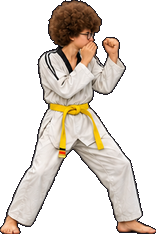
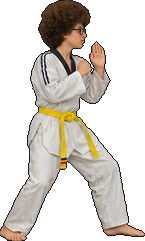
CAMPOS com folha nova e chutes por direção
Claude-Session: https://claude.ai/code/session_01HXNLdPa6jqkq51q5LfzTTd

diff --git a/index.html b/index.html
@@ -151,7 +151,7 @@ const ROSTER=[
  {nome:'MATT',tam:1.14,real:true,hit:{soco:{x:8,y:-50,w:22,h:13},direto:{x:9,y:-49,w:22,h:13},chute:{x:12,y:-44,w:22,h:13},passo:{x:13,y:-49,w:22,h:13},lateral:{x:13,y:-49,w:22,h:13},aereo:{x:12,y:-44,w:22,h:13},salto:{x:10,y:-67,w:26,h:18}},spr:{idle:['matt-idle.webp',66.0,1.0],a0:['matt-idle.webp',66.0,1.0],a1:['matt-andar.webp',80.5,0.979],a2:['matt-andar.webp',80.5,0.979],a3:['matt-andar.webp',80.5,0.979],soco:['matt-soco.webp',95.2,0.979],direto:['matt-direto.webp',101.2,0.967],chute:['matt-chute.webp',52.0,1.021],passo:['matt-lado.webp',94.0,1.004],pulo:['matt-pulo.webp',88.0,0.821],gancho:['matt-gancho.webp',84.5,1.008],pouso:['matt-pouso.webp',98.5,0.629],guarda:['matt-idle.webp',66.0,1.0]},faixa:'#151515',gola:true,pele:'#e0b48e',cabelo:'#1a120d',estilo:'cacheado'},
  {nome:'TIO',real:true,hit:{soco:{x:12,y:-51,w:22,h:13},direto:{x:11,y:-50,w:22,h:13},chute:{x:19,y:-47,w:22,h:13},giro:{x:19,y:-47,w:22,h:13},passo:{x:18,y:-41,w:22,h:13},lateral:{x:18,y:-41,w:22,h:13},aereo:{x:19,y:-47,w:22,h:13}},spr:{idle:['tio-idle.webp',74.2,1.0],a0:['tio-idle.webp',74.2,1.0],a1:['tio-andar.webp',88.2,0.979],a2:['tio-andar2.webp',59.0,1.029],a3:['tio-andar.webp',88.2,0.979],junta:['tio-junta.webp',48.0,1.083],soco:['tio-soco.webp',83.0,1.004],direto:['tio-direto.webp',86.5,0.988],chute:['tio-chute.webp',45.5,1.071],alto:['tio-chute.webp',45.5,1.071],passo:['tio-lado.webp',73.5,1.058],guarda:['tio-guarda.webp',76.0,0.996]},faixa:'#f2c230',pele:'#e0b48e',cabelo:'#2a1810',estilo:'curto'},
  {nome:'CLEITON',tam:1.14,real:true,hit:{soco:{x:10,y:-52,w:22,h:13},direto:{x:10,y:-51,w:22,h:13},chute:{x:22,y:-45,w:22,h:13},giro:{x:9,y:-63,w:22,h:18},passo:{x:11,y:-64,w:22,h:20},lateral:{x:22,y:-45,w:22,h:13},aereo:{x:22,y:-45,w:22,h:13}},spr:{idle:['cleiton-idle.webp',75.0,1.0],a0:['cleiton-idle.webp',75.0,1.0],a1:['cleiton-guarda.webp',76.5,0.979],a2:['cleiton-andar.webp',54.8,0.988],a3:['cleiton-guarda.webp',76.5,0.979],junta:['cleiton-junta.webp',120.0,0.946],soco:['cleiton-soco.webp',79.2,0.996],direto:['cleiton-direto.webp',84.8,0.988],chute:['cleiton-chute.webp',51.5,0.979],alto:['cleiton-alto.webp',84.0,1.05],passo:['cleiton-costas.webp',90.5,1.087],guarda:['cleiton-guarda.webp',76.5,0.979]},faixa:'#151515',gola:true,pele:'#8a5a3b',cabelo:'#120c08',estilo:'curto'},
- {nome:'CAMPOS',real:true,hit:{soco:{x:8,y:-48,w:22,h:16},direto:{x:7,y:-47,w:22,h:16},chute:{x:10,y:-61,w:22,h:16},giro:{x:10,y:-61,w:22,h:16},passo:{x:21,y:-47,w:22,h:16},lateral:{x:21,y:-47,w:22,h:16},aereo:{x:10,y:-61,w:22,h:16}},spr:{idle:['campos-idle.webp',78.8,1.0],a0:['campos-idle.webp',78.8,1.0],a1:['campos-idle2.webp',77.2,1.0],a2:['campos-andar.webp',67.5,0.992],a3:['campos-idle2.webp',77.2,1.0],junta:['campos-junta.webp',30.5,0.971],soco:['campos-soco.webp',78.8,0.979],direto:['campos-direto.webp',81.8,0.958],chute:['campos-chute.webp',63.0,1.008],alto:['campos-chute.webp',63.0,1.008],passo:['campos-lado.webp',70.5,0.958],guarda:['campos-guarda.webp',76.2,0.975]},faixa:'#f2c230',pele:'#e0b48e',cabelo:'#4a2a14',estilo:'cacheado'},
+ {nome:'CAMPOS',real:true,fwdKick:true,backStep:true,hit:{soco:{x:7,y:-50,w:22,h:16},direto:{x:6,y:-51,w:22,h:16},chute:{x:9,y:-67,w:22,h:16},giro:{x:9,y:-67,w:22,h:16},passo:{x:17,y:-54,w:22,h:16},lateral:{x:17,y:-54,w:22,h:16},aereo:{x:9,y:-67,w:22,h:16}},spr:{idle:['campos-idle.webp',85.0,1.0],a0:['campos-idle.webp',85.0,1.0],a1:['campos-idle2.webp',88.8,1.058],a2:['campos-andar.webp',77.0,1.004],a3:['campos-idle2.webp',88.8,1.058],junta:['campos-junta.webp',29.0,1.033],soco:['campos-soco.webp',78.0,1.004],direto:['campos-direto.webp',87.5,1.004],chute:['campos-alto.webp',58.5,1.083],alto:['campos-alto.webp',58.5,1.083],passo:['campos-lado.webp',89.5,0.979],lado:['campos-lado.webp',89.5,0.979],guarda:['campos-guarda.webp',69.5,1.004]},faixa:'#f2c230',pele:'#e0b48e',cabelo:'#4a2a14',estilo:'cacheado'},
  {nome:'CAÇADOR',tam:0.82,real:true,hit:{soco:{x:6,y:-48,w:22,h:16},direto:{x:6,y:-49,w:22,h:16},chute:{x:15,y:-51,w:22,h:16},giro:{x:15,y:-51,w:22,h:16},passo:{x:15,y:-51,w:22,h:16},lateral:{x:15,y:-51,w:22,h:16},aereo:{x:15,y:-51,w:22,h:16}},spr:{idle:['cacador-idle.webp',73.5,1.0],a0:['cacador-idle.webp',73.5,1.0],a1:['cacador-idle2.webp',76.2,1.008],a2:['cacador-andar.webp',62.2,0.967],a3:['cacador-idle2.webp',76.2,1.008],junta:['cacador-junta.webp',41.5,0.996],soco:['cacador-soco.webp',74.5,0.975],direto:['cacador-direto.webp',75.0,0.975],chute:['cacador-chute.webp',46.0,0.996],alto:['cacador-chute.webp',46.0,0.996],passo:['cacador-chute.webp',46.0,0.996],guarda:['cacador-guarda.webp',67.0,0.983]},faixa:'#f2c230',pele:'#e0b48e',cabelo:'#2a1810',estilo:'cacheado'}
 ];
 const LEG=6;
@@ -193,14 +193,15 @@ function update(s,f,o,inp){
  else if(f.st==='stun'){if(f.bs)f.block=back;if(--f.stun<=0&&!air){f.st='idle';f.t=0;}if(!air)f.vx*=0.85;}
  else if(f.st==='atk'){
   const m=MOVES[f.move];
-  if(!m.air&&!air)f.vx=(m.lunge&&f.t<m.startup+m.active)?m.lunge*f.facing:f.vx*0.7;
+  if(f.move==='passo'&&ROSTER[f.ci].backStep&&!air&&f.t<=m.startup)f.vx=-1.8*f.facing;
+  else if(!m.air&&!air)f.vx=(m.lunge&&f.t<m.startup+m.active)?m.lunge*f.facing:f.vx*0.7;
   if(f.move==='soco'&&(lp||s.frame-(f.bufP||-99)<=14)&&!air&&f.t>m.startup&&f.t<m.startup+m.active+m.recovery-2){f.move='direto';f.t=0;f.hasHit=false;f.bufP=-99;}   // jab + direto
   else if(f.t>=m.startup+m.active+m.recovery){f.st=air?'jump':'idle';f.t=0;}
  } else {
   if(!air&&o.x!==f.x)f.facing=o.x>f.x?1:-1;
   if(lk||lp||(lq&&!air)){
    f.st='atk';f.t=0;f.hasHit=false;
-   f.move=(lq&&!lk&&!lp)?'direto':air?'aereo':(lk&&s.frame-f.qcfT<=10)?(ROSTER[f.ci].spr&&ROSTER[f.ci].spr.pulo?'salto':'giro'):(lk&&s.frame-(f.dashT||-99)<=20)?'lateral':(lk&&back&&ROSTER[f.ci].spr&&ROSTER[f.ci].spr.passo)?'passo':lk?(ROSTER[f.ci].dSpin?'giroD':'chute'):ROSTER[f.ci].aKick?'lateralA':'soco';
+   f.move=(lq&&!lk&&!lp)?'direto':air?'aereo':(lk&&s.frame-f.qcfT<=10)?(ROSTER[f.ci].spr&&ROSTER[f.ci].spr.pulo?'salto':'giro'):(lk&&s.frame-(f.dashT||-99)<=20)?'lateral':(lk&&fwd&&ROSTER[f.ci].fwdKick)?'lateral':(lk&&back&&ROSTER[f.ci].spr&&ROSTER[f.ci].spr.passo)?'passo':lk?(ROSTER[f.ci].dSpin?'giroD':'chute'):ROSTER[f.ci].aKick?'lateralA':'soco';
   } else if(!air){
    if(inp.u){f.vy=-6.2;f.vx=(fwd?2:back?-2:0)*f.facing;f.st='jump';f.t=0;}
    else{
@@ -455,7 +456,7 @@ function imgPose(f,o,air,c){
   else if(f.move==='chute'){if(ph===0){if(has('junta'))fr='junta';else if(has('a2')&&!has('a0'))fr='a2';else{rot=-0.06;dx=-1;}}else if(ph===1||rec<7){if(has('chute'))fr='chute';else{rot=-0.28;dx=5;sx=1.05;}}}
   else if(f.move==='giroD'){if(ph===0){const u=f.t/m.startup;fr=u<0.5&&has('vira')?'vira':has('costas')?'costas':'idle';dy=-Math.sin(Math.PI*u)*2;}else if(ph===1||rec<7)fr='chute';}
   else if(f.move==='lateralA'){if(ph===0)fr=has('joelho')?'joelho':'idle';else if(ph===1||rec<7)fr=has('lado')?'lado':'chute';}
-  else if(f.move==='lateral'){const u=f.t/m.startup;if(ph===0){fr=has('junta')?'junta':has('a2')?'a2':'idle';dy=-Math.sin(Math.PI*Math.min(1,u))*2;}else if(ph===1||rec<7){fr=has('chute')?'chute':'idle';if(!has('chute')){rot=-0.28;dx=5;}}}
+  else if(f.move==='lateral'){const u=f.t/m.startup;if(ph===0){fr=has('junta')?'junta':has('a2')?'a2':'idle';dy=-Math.sin(Math.PI*Math.min(1,u))*2;}else if(ph===1||rec<7){fr=has('lado')?'lado':has('chute')?'chute':'idle';if(!has('chute')){rot=-0.28;dx=5;}}}
   else if(f.move==='passo'){const u=f.t/m.startup,g=has('junta')?'junta':has('a2')?'a2':'idle';if(ph===0&&has('prep')){fr='prep';dy=-Math.sin(Math.PI*u)*3;}else if(ph===0&&has('costas')){fr=g;dy=-Math.sin(Math.PI*u)*3;if(u<0.5)sx=Math.max(0.1,Math.cos(Math.PI*u));else{fr='costas';sx=Math.max(0.1,-Math.cos(Math.PI*u));}}else if(ph===0){fr=g;}else if(ph===1||rec<7){fr=has('passo')?'passo':'chute';const k=f.t-m.startup;if(k<4&&(has('costas')||has('prep'))){sx=0.35+0.65*k/4;rot=-0.25*(1-k/4);}}}
   else if(f.move==='salto'){const u=f.t/m.startup;if(ph===0){fr=u<0.35?'chute':'pulo';dy=u<0.35?0:-Math.sin(Math.PI*Math.min(1,(u-0.35)/0.65+0.3))*12;}else if(ph===1){fr='gancho';dy=-6*(1-(f.t-m.startup)/m.active);}else fr=rec<12?'pouso':'idle';}
   else if(f.move==='giro'){if(ph===0&&has('prep')){fr='prep';dy=-Math.sin(Math.PI*f.t/m.startup)*3;}else if(ph===0&&has('costas')){const u=f.t/m.startup;fr=u<0.5&&has('vira')?'vira':'costas';}else if(ph===0){fr=has('junta')?'junta':'idle';}else if((ph===1||rec<8)&&has('alto')){fr='alto';dx=2;}else if(ph===1||rec<8){if(has('chute')){fr='chute';rot=-0.18;dx=3;}else{rot=-0.38;dx=7;sx=1.06;}}}
